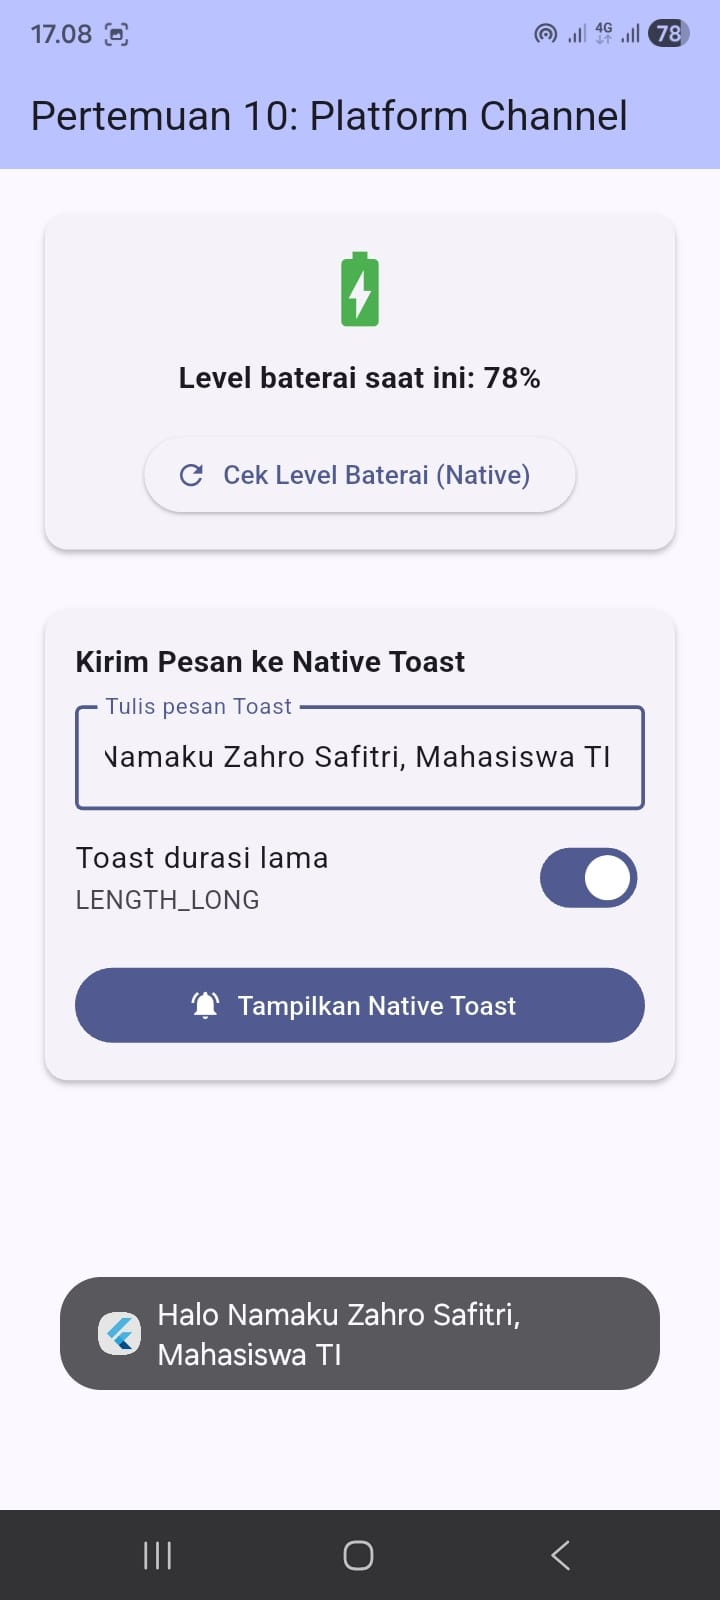
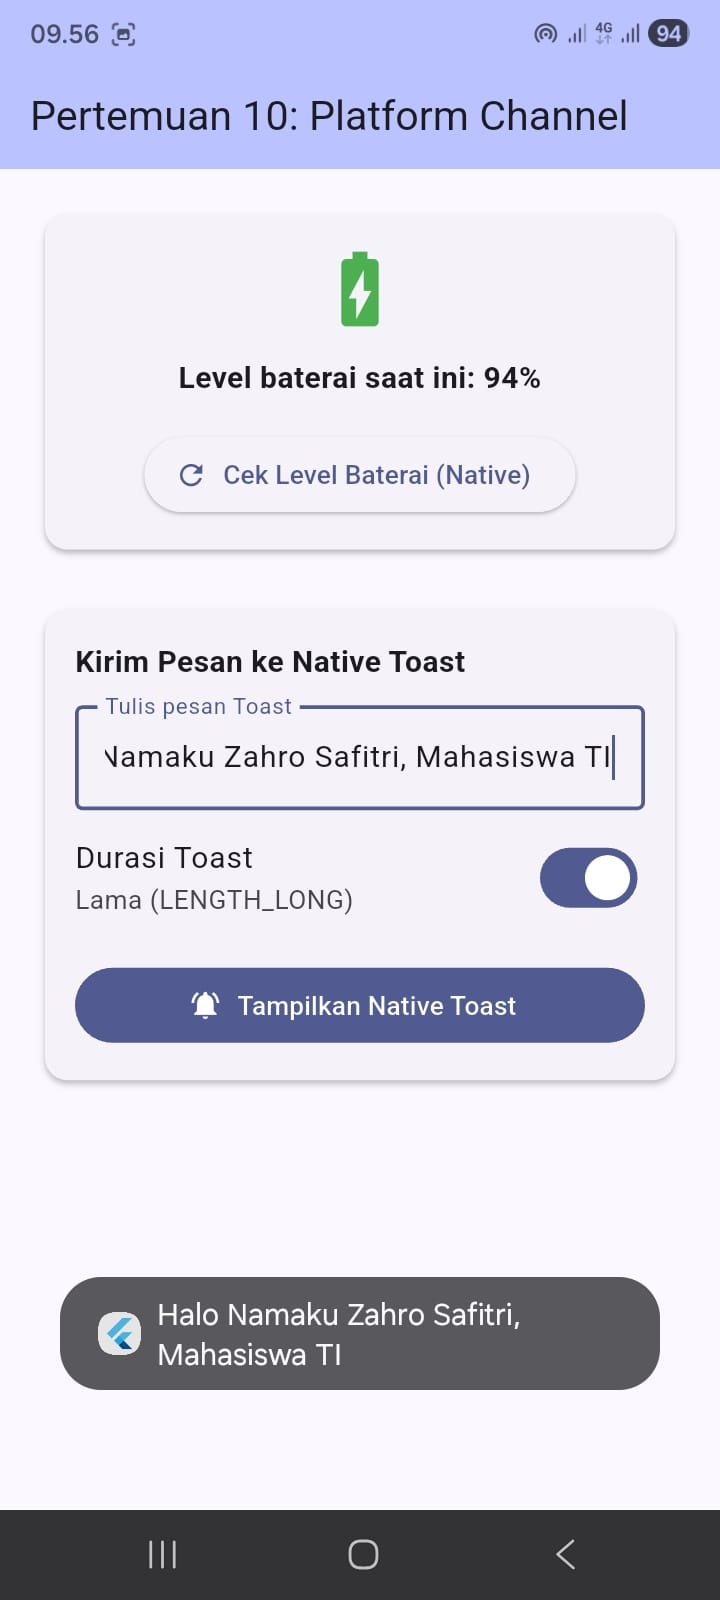
Perjelas label saklar, perbarui screenshot, perbaiki kelas

diff --git a/lib/main.dart b/lib/main.dart
@@ -144,8 +144,12 @@ class _PlatformChannelPageState extends State<PlatformChannelPage> {
 
                     SwitchListTile(
                       contentPadding: EdgeInsets.zero,
-                      title: const Text('Toast durasi lama'),
-                      subtitle: Text(_isLong ? 'LENGTH_LONG' : 'LENGTH_SHORT'),
+                      title: const Text('Durasi Toast'),
+                      subtitle: Text(
+                        _isLong
+                            ? 'Lama (LENGTH_LONG)'
+                            : 'Singkat (LENGTH_SHORT)',
+                      ),
                       value: _isLong,
                       onChanged: (value) {
                         setState(() {

diff --git a/README.md b/README.md
@@ -11,7 +11,7 @@ Aplikasi ini memakai **MethodChannel** untuk menghubungkan Flutter (Dart) dengan
 
 - Nama: Zahro Safitri
 - NIM: 2411500063
-- Kelas: TI5J
+- Kelas: TA5J
 
 ## Fitur
 
